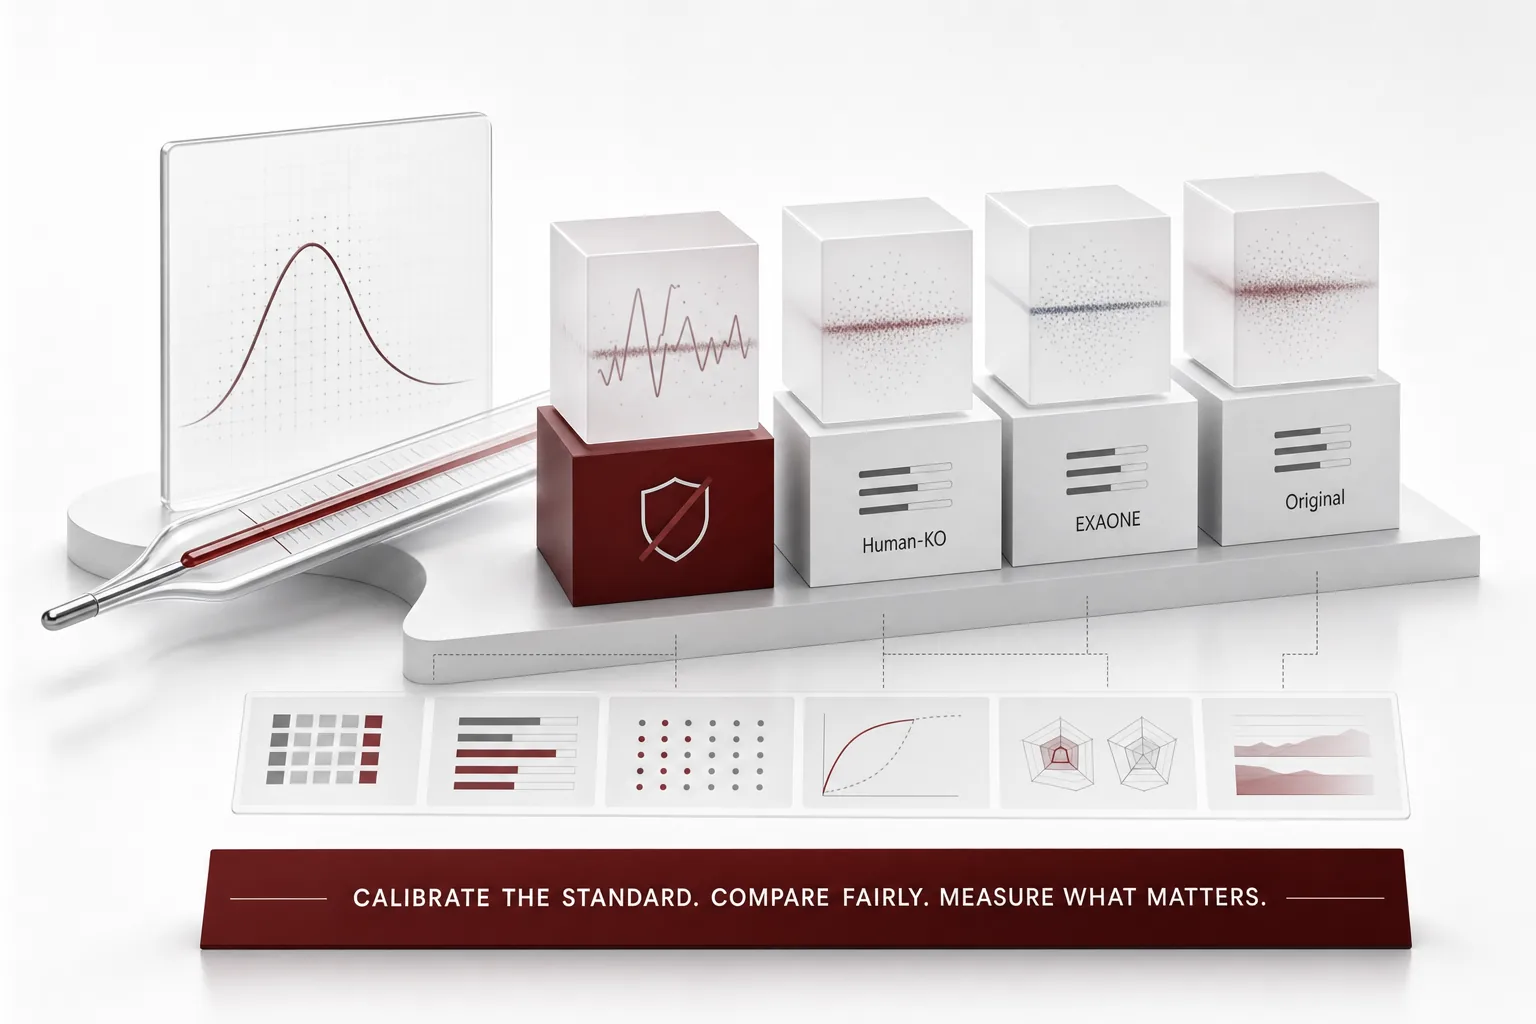
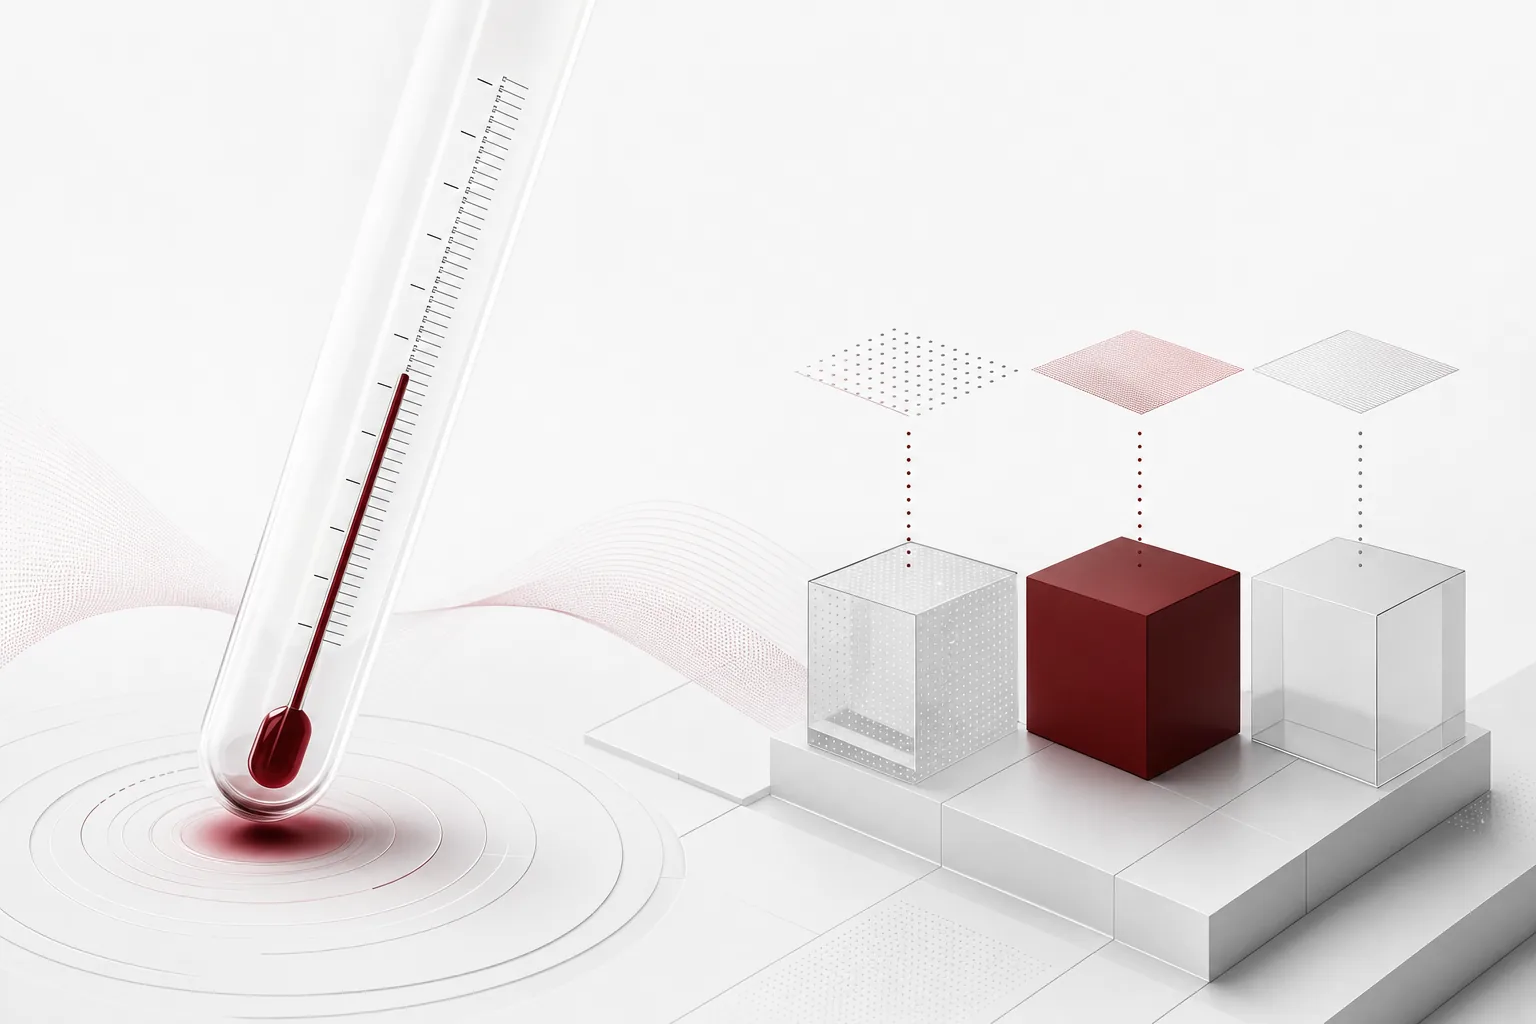
chore(blog): sync posts + media guard

diff --git a/_posts/en/agentops/2026-09-04-agent-level-evaluation-praxis.md b/_posts/en/agentops/2026-09-04-agent-level-evaluation-praxis.md
@@ -16,9 +16,15 @@ author_profile: true
 toc: true
 toc_label: "Table of Contents"
 canonical_url: "https://thakicloud.com/tech-blog/en/agentops/agent-level-evaluation-praxis/"
+audiobook: "https://drive.google.com/file/d/151Ue_U8jloBMtSWkKPDj32hrKeATD69y/view"
+audiobook_label: "▶ Listen: 5-minute briefing"
+audiobook_note: "NotebookLM audio overview (AI-generated)"
 ---
 
 A few days ago we wrote about [measuring Human-KO's safety](https://thakicloud.com/tech-blog/en/llmops/humanko-safety-benchmark/). While doing that work, a different question came up alongside it: "Does this benchmark cover models only, or agents too?" Short answer: in our product UI, only models. But a tool for evaluating agents already existed in-house. It was just sitting in a different drawer.
+
+![Illustration of the core idea of A Model Exam and an Agent Exam Are Different Tests — We Found the Answer Already Sitting in a Drawer](/assets/images/agent-level-evaluation-praxis-hero.webp)
+*A visual metaphor for the article's key idea.*
 
 ## Plain terms
 

diff --git a/_posts/en/llmops/2026-09-04-humanko-safety-benchmark.md b/_posts/en/llmops/2026-09-04-humanko-safety-benchmark.md
@@ -18,9 +18,15 @@ author_profile: true
 toc: true
 toc_label: "Table of Contents"
 canonical_url: "https://thakicloud.com/tech-blog/en/llmops/humanko-safety-benchmark/"
+audiobook: "https://drive.google.com/file/d/1sb5NqG9B5pXRXhaYKvtI041ByGLUvWW4/view"
+audiobook_label: "▶ Listen: 5-minute briefing"
+audiobook_note: "NotebookLM audio overview (AI-generated)"
 ---
 
 Last week we [put Human-KO 27B next to EXAONE 4.5 on knowledge and tone](https://thakicloud.com/tech-blog/en/llmops/humanko-27b-vs-exaone/). A customer who read that post asked a different question: "Knowledge and tone, sure, but is it safe?" Today we answer with numbers. The short version: the surgery that made this model talk like a person did not statistically touch its safety axis.
+
+![Illustration of the core idea of What Does 'Safe' Even Mean? We Put Human-KO Next to EXAONE and Our Own Ruler](/assets/images/humanko-safety-benchmark-hero.webp)
+*A visual metaphor for the article's key idea.*
 
 ## Plain terms
 

diff --git a/_posts/ko/llmops/2026-09-04-humanko-safety-benchmark.md b/_posts/ko/llmops/2026-09-04-humanko-safety-benchmark.md
@@ -18,6 +18,9 @@ author_profile: true
 toc: true
 toc_label: "목차"
 canonical_url: "https://thakicloud.com/tech-blog/ko/llmops/humanko-safety-benchmark/"
+audiobook: "https://drive.google.com/file/d/1hmsLWjBD0udJwAL4_XFPjnDpukv4zoGF/view"
+audiobook_label: "▶ 5분 브리핑으로 듣기"
+audiobook_note: "NotebookLM 오디오 개요 (AI 생성)"
 ---
 
 모델을 사람처럼 부드럽게 말하도록 다시 훈련시키면, 위험한 요청을 걸러내는 능력도 같이 물러지지 않을까요. 회사가 모델을 고객 응대용으로 손볼 때 가장 자주 받는 걱정이 이것입니다. 저희도 같은 걱정을 안고 직접 재봤습니다. 결론부터 말하면, 그 훈련은 안전 반응을 통계적으로 건드리지 않았습니다.

diff --git a/_posts/ko/agentops/2026-09-04-agent-level-evaluation-praxis.md b/_posts/ko/agentops/2026-09-04-agent-level-evaluation-praxis.md
@@ -16,6 +16,9 @@ author_profile: true
 toc: true
 toc_label: "목차"
 canonical_url: "https://thakicloud.com/tech-blog/ko/agentops/agent-level-evaluation-praxis/"
+audiobook: "https://drive.google.com/file/d/11m4vPYYqqc7xo_K-uiBZm7sGKrIbJwEF/view"
+audiobook_label: "▶ 5분 브리핑으로 듣기"
+audiobook_note: "NotebookLM 오디오 개요 (AI 생성)"
 ---
 
 모델을 재는 시험과 에이전트를 재는 시험은 같은 시험이 아닙니다. 저희 제품 화면에서는 모델만 잽니다. 그런데 에이전트를 재는 도구는 회사 안에 이미 있었습니다. 다른 서랍에 들어 있었을 뿐입니다.
